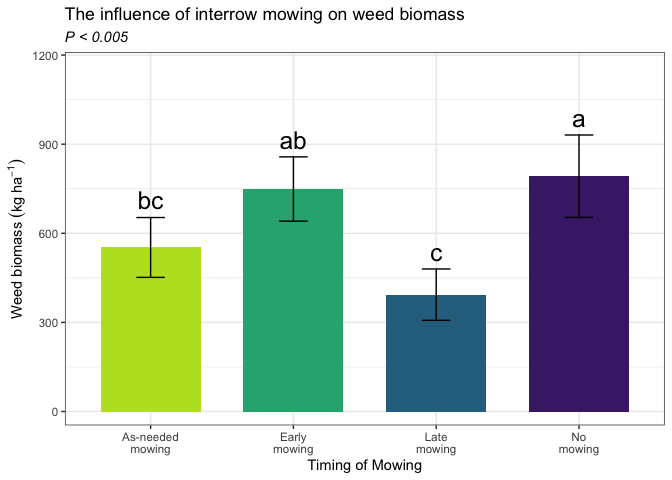
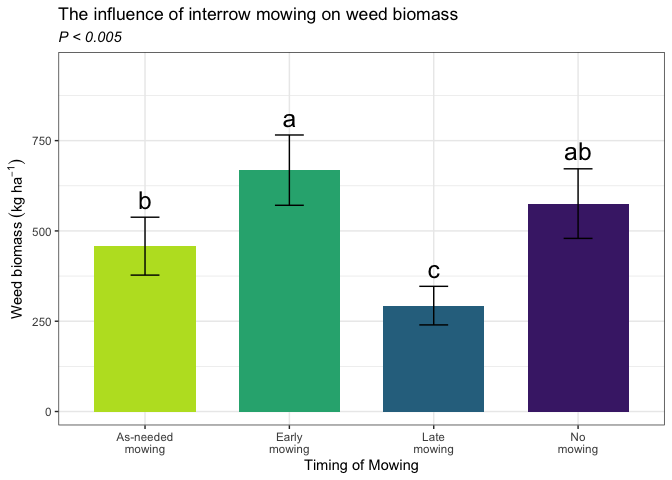
removed outliers

diff --git a/rmarkdowns/weed_biomass_2023.md b/rmarkdowns/weed_biomass_2023.md
@@ -128,8 +128,8 @@ all_raw_2023 <- bind_rows(fh_raw_2023, cu_raw_2023, me_raw_2023, vt_raw_2023, wi
 all_clean_2023 <- clean_names(all_raw_2023) |>  
   rename ('mowing'= trt,'weeds'= microplot) |> 
   mutate(across(c(mowing, block, plot, weeds, loc), as.factor)) |> 
-  mutate(is_outlier = wbm < (quantile(wbm, 0.25) - 1.5 * IQR(beanyd)) |
-                       wbm > (quantile(wbm, 0.75) + 1.5 * IQR(beanyd)))
+  mutate(is_outlier = wbm < (quantile(wbm, 0.25) - 1.5 * IQR(wbm)) |
+                       wbm > (quantile(wbm, 0.75) + 1.5 * IQR(wbm)))
 
 #select and convert data for wbm analysis
   
@@ -162,9 +162,9 @@ levene_test((wbm_kg_ha) ~ loc, data = all_wbm_clean_2023)
 ```
 
     ## # A tibble: 1 × 4
-    ##     df1   df2 statistic         p
-    ##   <int> <int>     <dbl>     <dbl>
-    ## 1     4   155      7.24 0.0000225
+    ##     df1   df2 statistic      p
+    ##   <int> <int>     <dbl>  <dbl>
+    ## 1     4   145      2.61 0.0380
 
 # **Model Testing**
 
@@ -220,15 +220,15 @@ resid_panel(log_all_wbm_fixed_2023)
   kable()  
 ```
 
-|     | model term       | df1 | df2 | F.ratio |   p.value |
-|:----|:-----------------|----:|----:|--------:|----------:|
-| 1   | loc              |   4 |  15 |   7.713 | 0.0013871 |
-| 5   | mowing           |   3 |  45 |   4.978 | 0.0045600 |
-| 7   | weeds            |   1 |  60 |  37.499 | 0.0000001 |
-| 2   | loc:mowing       |  12 |  45 |   1.016 | 0.4509978 |
-| 4   | loc:weeds        |   4 |  60 |   8.152 | 0.0000256 |
-| 6   | mowing:weeds     |   3 |  60 |   3.667 | 0.0170660 |
-| 3   | loc:mowing:weeds |  12 |  60 |   0.945 | 0.5093560 |
+|     | model term       | df1 |   df2 | F.ratio |   p.value |
+|:----|:-----------------|----:|------:|--------:|----------:|
+| 1   | loc              |   4 | 13.59 |   3.971 | 0.0241923 |
+| 5   | mowing           |   3 | 42.89 |   9.187 | 0.0000821 |
+| 7   | weeds            |   1 | 58.36 |  64.757 | 0.0000000 |
+| 2   | loc:mowing       |  12 | 39.33 |   1.627 | 0.1236247 |
+| 4   | loc:weeds        |   4 | 52.31 |  10.953 | 0.0000016 |
+| 6   | mowing:weeds     |   3 | 57.04 |   4.876 | 0.0043591 |
+| 3   | loc:mowing:weeds |  12 | 52.31 |   1.570 | 0.1298184 |
 
 <br>
 
@@ -243,14 +243,14 @@ pairwise_comparisons<- pairs(all_wbm_means_2023)
 kable(head(pairwise_comparisons))
 ```
 
-| contrast            | estimate |       SE |       df |    t.ratio |   p.value |
-|:--------------------|---------:|---------:|---------:|-----------:|----------:|
-| CU AWC M - FH AWC M |   395.00 | 380.6147 | 117.5160 |  1.0377950 | 0.8838517 |
-| CU AWC M - ME AWC M |  -620.25 | 380.6147 | 117.5160 | -1.6296009 | 0.4889977 |
-| CU AWC M - VT AWC M |   188.25 | 380.6147 | 117.5160 |  0.4945947 | 0.9970741 |
-| CU AWC M - WI AWC M |   401.50 | 380.6147 | 117.5160 |  1.0548726 | 0.8757979 |
-| CU AWC M - CU EWC M |    21.70 | 370.0094 | 102.8571 |  0.0586472 | 1.0000000 |
-| CU AWC M - FH EWC M |   175.05 | 380.6147 | 117.5160 |  0.4599140 | 0.9980462 |
+| contrast            |  estimate |       SE |        df |    t.ratio |   p.value |
+|:--------------------|----------:|---------:|----------:|-----------:|----------:|
+| CU AWC M - FH AWC M |  395.0000 | 258.2026 | 102.94873 |  1.5298065 | 0.5637705 |
+| CU AWC M - ME AWC M | -191.0441 | 279.3444 | 104.93229 | -0.6839016 | 0.9835208 |
+| CU AWC M - VT AWC M |  188.2500 | 258.2026 | 102.94873 |  0.7290787 | 0.9772289 |
+| CU AWC M - WI AWC M |  401.5000 | 258.2026 | 102.94873 |  1.5549805 | 0.5450756 |
+| CU AWC M - CU EWC M |   21.7000 | 244.6881 |  93.37742 |  0.0886843 | 0.9999999 |
+| CU AWC M - FH EWC M |  175.0500 | 258.2026 | 102.94873 |  0.6779560 | 0.9842472 |
 
 <br>
 
@@ -268,10 +268,10 @@ cld_mowing_fisher
 ```
 
     ##  mowing emmean   SE   df lower.CL upper.CL .group
-    ##  NWC       792 87.4 58.1      617      967  a    
-    ##  EWC       749 87.4 58.1      574      924  ab   
-    ##  AWC       552 87.4 58.1      377      727   bc  
-    ##  LWC       393 87.4 58.1      218      568    c  
+    ##  EWC       679 62.4 52.8      554      805  a    
+    ##  NWC       620 65.0 57.7      490      750  ab   
+    ##  AWC       470 62.4 52.8      344      595   b   
+    ##  LWC       293 62.4 52.8      168      418    c  
     ## 
     ## Results are averaged over the levels of: loc, weeds 
     ## Degrees-of-freedom method: kenward-roger 
@@ -292,9 +292,9 @@ cld_weeds_fisher <- cld(emmeans(all_wbm_fixed_2023, ~  weeds, type = ""), Letter
 cld_weeds_fisher
 ```
 
-    ##  weeds emmean SE df lower.CL upper.CL .group
-    ##  M        368 65 38      237      500   b   
-    ##  SW       875 65 38      744     1007  a    
+    ##  weeds emmean   SE   df lower.CL upper.CL .group
+    ##  M        281 48.2 31.0      183      379   b   
+    ##  SW       750 49.0 32.7      650      850  a    
     ## 
     ## Results are averaged over the levels of: loc, mowing 
     ## Degrees-of-freedom method: kenward-roger 
@@ -318,18 +318,18 @@ cld_mowing_weeds_fisher
 ```
 
     ## weeds = M:
-    ##  mowing emmean  SE  df lower.CL upper.CL .group
-    ##  EWC       530 120 118    291.8      769  a    
-    ##  AWC       354 120 118    116.0      593  a    
-    ##  NWC       311 120 118     72.6      549  a    
-    ##  LWC       278 120 118     40.0      517  a    
+    ##  mowing emmean   SE  df lower.CL upper.CL .group
+    ##  EWC       477 84.4 104   309.61      644  a    
+    ##  AWC       269 84.4 104   101.16      436  ab   
+    ##  NWC       201 84.4 104    33.96      369   b   
+    ##  LWC       177 84.4 104     9.89      345   b   
     ## 
     ## weeds = SW:
-    ##  mowing emmean  SE  df lower.CL upper.CL .group
-    ##  NWC      1274 120 118   1035.2     1512  a    
-    ##  EWC       968 120 118    729.6     1206  ab   
-    ##  AWC       750 120 118    512.0      989   bc  
-    ##  LWC       509 120 118    270.2      747    c  
+    ##  mowing emmean   SE  df lower.CL upper.CL .group
+    ##  NWC      1039 92.1 107   856.36     1221  a    
+    ##  EWC       882 84.4 104   714.41     1049  ab   
+    ##  AWC       670 84.4 104   503.14      838   b   
+    ##  LWC       409 84.4 104   241.91      577    c  
     ## 
     ## Results are averaged over the levels of: loc 
     ## Degrees-of-freedom method: kenward-roger 
@@ -347,73 +347,73 @@ cld_mowing_weeds_loc_fisher
 
     ## weeds = M, loc = CU:
     ##  mowing emmean  SE  df lower.CL upper.CL .group
-    ##  AWC     427.2 269 118   -105.7      960  a    
-    ##  NWC     406.2 269 118   -126.7      939  a    
-    ##  EWC     405.6 269 118   -127.4      939  a    
-    ##  LWC     324.8 269 118   -208.2      858  a    
+    ##  AWC     427.2 183 103     65.1      789  a    
+    ##  NWC     406.2 183 103     44.1      768  a    
+    ##  EWC     405.6 183 103     43.4      768  a    
+    ##  LWC     324.8 183 103    -37.3      687  a    
     ## 
     ## weeds = SW, loc = CU:
     ##  mowing emmean  SE  df lower.CL upper.CL .group
-    ##  EWC    1365.1 269 118    832.1     1898  a    
-    ##  NWC    1088.0 269 118    555.0     1621  ab   
-    ##  LWC     562.8 269 118     29.8     1096   b   
-    ##  AWC     552.8 269 118     19.8     1086   b   
+    ##  EWC    1365.1 183 103   1003.0     1727  a    
+    ##  NWC    1088.0 183 103    725.8     1450  a    
+    ##  LWC     562.8 183 103    200.6      925   b   
+    ##  AWC     552.8 183 103    190.6      915   b   
     ## 
     ## weeds = M, loc = FH:
     ##  mowing emmean  SE  df lower.CL upper.CL .group
-    ##  EWC     252.2 269 118   -280.8      785  a    
-    ##  LWC     128.8 269 118   -404.2      662  a    
-    ##  NWC      83.0 269 118   -450.0      616  a    
-    ##  AWC      32.2 269 118   -500.7      565  a    
+    ##  EWC     252.2 183 103   -109.9      614  a    
+    ##  LWC     128.8 183 103   -233.4      491  a    
+    ##  NWC      83.0 183 103   -279.2      445  a    
+    ##  AWC      32.2 183 103   -329.9      394  a    
     ## 
     ## weeds = SW, loc = FH:
     ##  mowing emmean  SE  df lower.CL upper.CL .group
-    ##  EWC     671.4 269 118    138.4     1204  a    
-    ##  NWC     605.0 269 118     72.1     1138  a    
-    ##  LWC     208.9 269 118   -324.0      742  a    
-    ##  AWC     174.1 269 118   -358.9      707  a    
+    ##  EWC     671.4 183 103    309.3     1034  a    
+    ##  NWC     605.0 183 103    242.9      967  ab   
+    ##  LWC     208.9 183 103   -153.2      571  ab   
+    ##  AWC     174.1 183 103   -188.0      536   b   
     ## 
     ## weeds = M, loc = ME:
     ##  mowing emmean  SE  df lower.CL upper.CL .group
-    ##  EWC    1600.5 269 118   1067.5     2133  a    
-    ##  AWC    1047.5 269 118    514.5     1580  ab   
-    ##  LWC     903.0 269 118    370.0     1436  ab   
-    ##  NWC     816.0 269 118    283.0     1349   b   
+    ##  EWC    1334.3 211 106    915.1     1753  a    
+    ##  AWC     618.3 211 106    199.1     1037   b   
+    ##  LWC     397.6 211 106    -21.5      817   b   
+    ##  NWC     267.6 211 106   -151.5      687   b   
     ## 
     ## weeds = SW, loc = ME:
     ##  mowing emmean  SE  df lower.CL upper.CL .group
-    ##  AWC    1310.5 269 118    777.5     1843  a    
-    ##  NWC    1043.0 269 118    510.0     1576  a    
-    ##  EWC    1022.5 269 118    489.5     1555  a    
-    ##  LWC     834.5 269 118    301.5     1367  a    
+    ##  AWC     911.3 211 106    492.2     1330  a    
+    ##  NWC     630.7 211 106    211.5     1050  ab   
+    ##  EWC     591.3 211 106    172.2     1010  ab   
+    ##  LWC     338.0 211 106    -81.2      757   b   
     ## 
     ## weeds = M, loc = VT:
     ##  mowing emmean  SE  df lower.CL upper.CL .group
-    ##  EWC     286.0 269 118   -247.0      819  a    
-    ##  NWC     240.5 269 118   -292.5      773  a    
-    ##  AWC     239.0 269 118   -294.0      772  a    
-    ##  LWC      35.0 269 118   -498.0      568  a    
+    ##  EWC     286.0 183 103    -76.1      648  a    
+    ##  NWC     240.5 183 103   -121.6      603  a    
+    ##  AWC     239.0 183 103   -123.1      601  a    
+    ##  LWC      35.0 183 103   -327.1      397  a    
     ## 
     ## weeds = SW, loc = VT:
     ##  mowing emmean  SE  df lower.CL upper.CL .group
-    ##  NWC    1252.5 269 118    719.5     1785  a    
-    ##  AWC     639.0 269 118    106.0     1172  ab   
-    ##  EWC     355.5 269 118   -177.5      888   b   
-    ##  LWC     160.0 269 118   -373.0      693   b   
+    ##  NWC    1252.5 183 103    890.4     1615  a    
+    ##  AWC     639.0 183 103    276.9     1001   b   
+    ##  EWC     355.5 183 103     -6.6      718   b   
+    ##  LWC     160.0 183 103   -202.1      522   b   
     ## 
     ## weeds = M, loc = WI:
     ##  mowing emmean  SE  df lower.CL upper.CL .group
-    ##  EWC     106.8 269 118   -426.2      640  a    
-    ##  AWC      25.8 269 118   -507.2      559  a    
-    ##  NWC       9.2 269 118   -523.8      542  a    
-    ##  LWC       0.0 269 118   -533.0      533  a    
+    ##  EWC     106.8 183 103   -255.4      469  a    
+    ##  AWC      25.8 183 103   -336.4      388  a    
+    ##  NWC       9.2 183 103   -352.9      371  a    
+    ##  LWC       0.0 183 103   -362.1      362  a    
     ## 
     ## weeds = SW, loc = WI:
     ##  mowing emmean  SE  df lower.CL upper.CL .group
-    ##  NWC    2379.2 269 118   1846.2     2912  a    
-    ##  EWC    1425.5 269 118    892.5     1958   b   
-    ##  AWC    1075.3 269 118    542.3     1608   b   
-    ##  LWC     776.6 269 118    243.6     1310   b   
+    ##  NWC    1618.3 259 110   1104.5     2132  a    
+    ##  EWC    1425.5 183 103   1063.4     1788  a    
+    ##  AWC    1075.3 183 103    713.2     1437  ab   
+    ##  LWC     776.6 183 103    414.5     1139   b   
     ## 
     ## Degrees-of-freedom method: kenward-roger 
     ## Confidence level used: 0.95 
